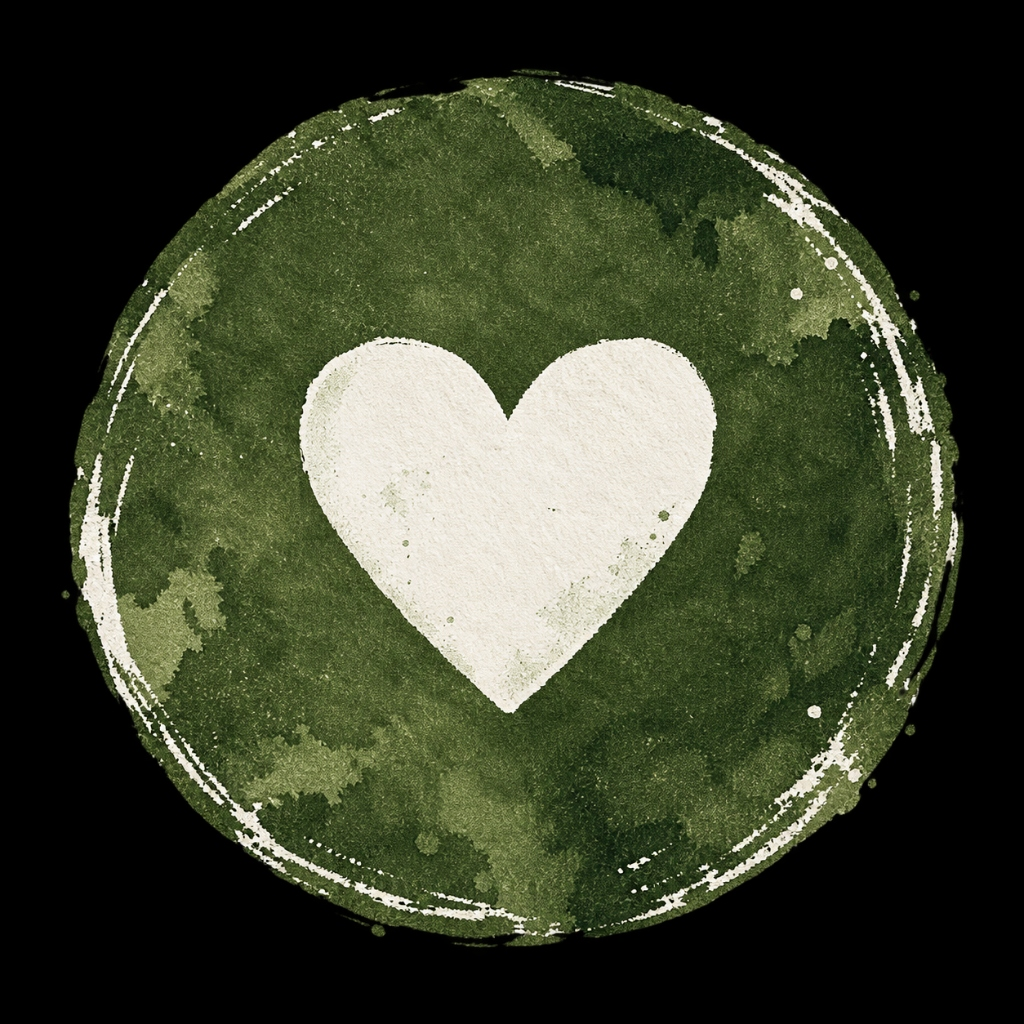
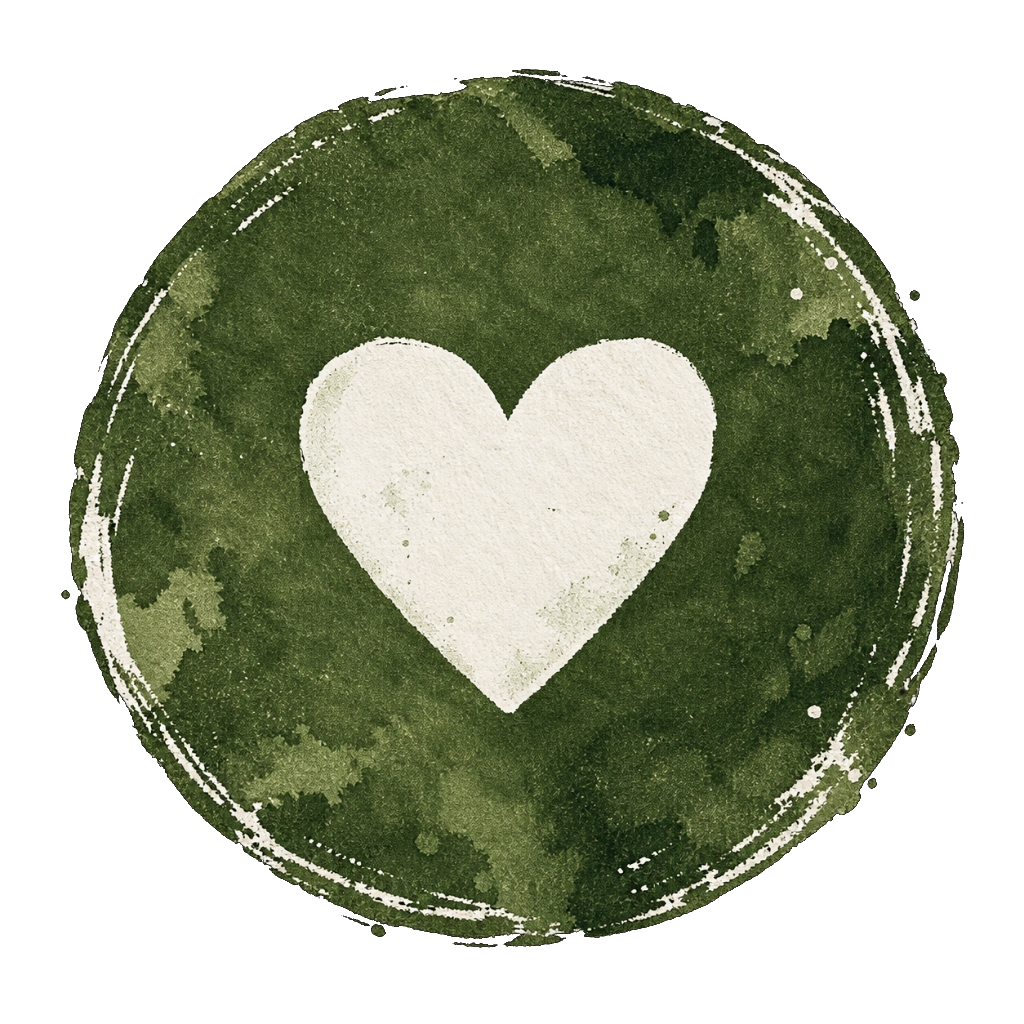
fix(assets): provide transparent PNG action assets and fix sticky topbar offset

diff --git a/src/styles.css b/src/styles.css
@@ -1658,17 +1658,16 @@ input:focus-visible {
 
 .app {
   overflow-x: clip;
-  padding-top: var(--topbar-h);
+  padding-top: 0;
   padding-bottom: calc(var(--bottom-nav-space) + env(safe-area-inset-bottom));
 }
 
 .topbar {
-  position: fixed;
-  inset: 0 0 auto 0;
+  position: sticky;
+  top: 0;
   z-index: 45;
   min-height: var(--topbar-h);
-  height: var(--topbar-h);
-  padding-top: 9px;
+  padding-top: calc(9px + env(safe-area-inset-top, 0px));
   padding-bottom: 9px;
   background:
     linear-gradient(rgba(247, 240, 227, 0.985), rgba(247, 240, 227, 0.975)),
@@ -1926,7 +1925,6 @@ input:focus-visible {
 
   .topbar {
     min-height: var(--topbar-h);
-    height: var(--topbar-h);
   }
 
   .content {
@@ -2020,36 +2018,30 @@ body {
 }
 
 /* The button itself must not draw the old CSS circle.
-   The generated image is the complete visible control. */
+   The transparent artwork image is the complete visible control. */
 .swipe-action,
 .swipe-action--rewind,
 .swipe-action--pass,
 .swipe-action--like {
-  padding: 0 !important;
-  border: 0 !important;
-  border-radius: 0 !important;
-  background: transparent !important;
-  box-shadow: none !important;
-  filter: none !important;
-  color: transparent !important;
+  padding: 0;
+  border: 0;
+  border-radius: 0;
+  background: transparent;
+  box-shadow: none;
   overflow: visible;
 }
 
-.swipe-action::after {
-  display: none !important;
-}
-
 .swipe-action--rewind {
-  width: 50px;
-  height: 50px;
+  width: 48px;
+  height: 48px;
   margin-top: 5px;
   transform: rotate(-2deg);
 }
 
 .swipe-action--pass,
 .swipe-action--like {
-  width: 64px;
-  height: 64px;
+  width: 62px;
+  height: 62px;
 }
 
 .swipe-action--pass {
@@ -2060,20 +2052,8 @@ body {
   transform: rotate(-1deg);
 }
 
-.swipe-action > img {
-  display: block;
-  width: 100%;
-  height: 100%;
-  max-width: none;
-  object-fit: contain;
-  pointer-events: none;
-  user-select: none;
-  -webkit-user-drag: none;
-  filter: drop-shadow(0 7px 7px rgba(42, 34, 27, 0.13));
-}
-
 .swipe-action:active {
-  transform: scale(0.92) rotate(-1deg);
+  transform: scale(0.92);
 }
 
 .bottom-nav button.active::before {
@@ -2082,19 +2062,6 @@ body {
   background: transparent var(--art-active-swatch-image, none) center / 100% 100% no-repeat !important;
   clip-path: none;
   box-shadow: none;
-}
-
-@media (max-width: 430px) {
-  .swipe-action--rewind {
-    width: 48px;
-    height: 48px;
-  }
-
-  .swipe-action--pass,
-  .swipe-action--like {
-    width: 62px;
-    height: 62px;
-  }
 }
 
 /* --- Canonical art slots -------------------------------------------------
